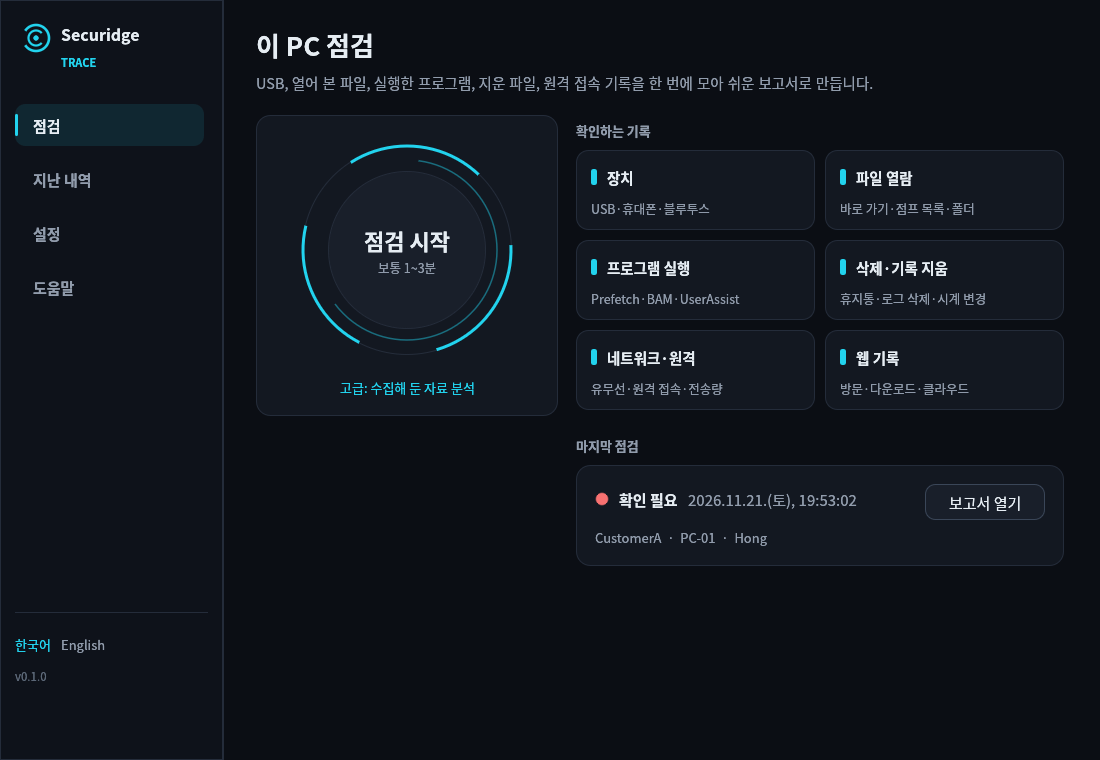
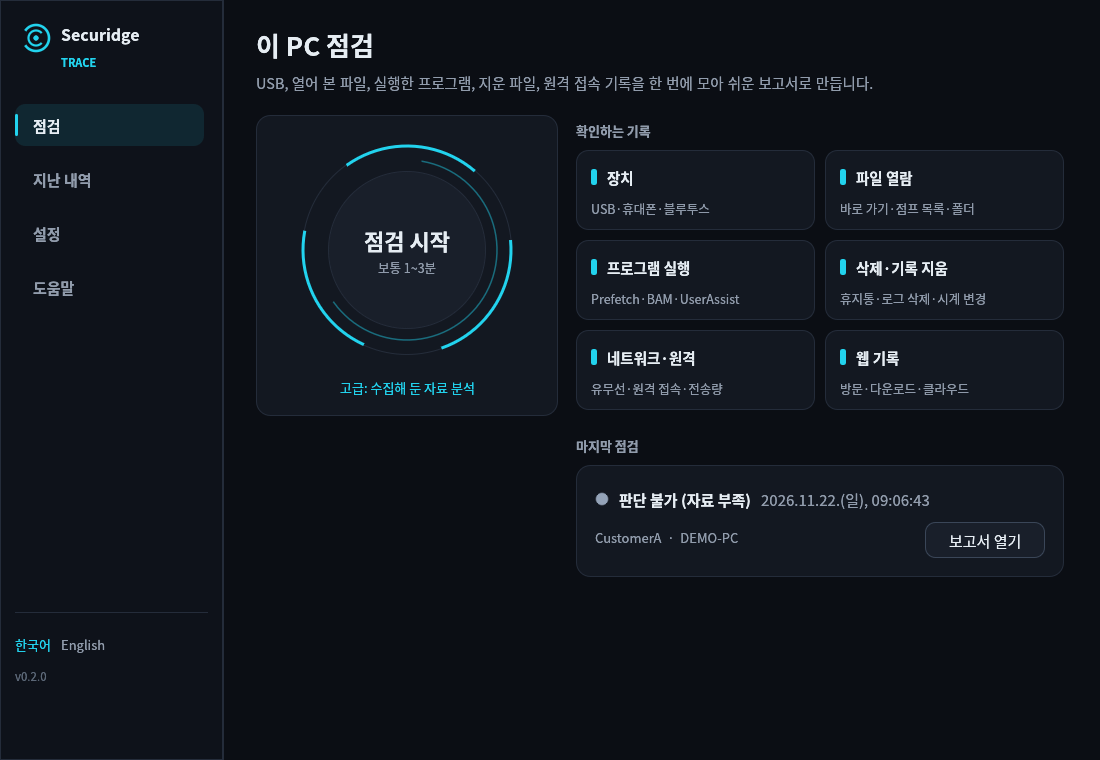
README 검증 현황 v0.2, 스크린샷, CI Prefetch 대기 보강
Claude-Session: https://claude.ai/code/session_01APsWpCB27gy9DHCCxkqUYW

Changed region(s): [[0.5255, 0.6355, 0.9273, 0.7263], [0.6182, 0.6961, 0.7109, 0.7263]]

diff --git a/ci/verify_more.py b/ci/verify_more.py
@@ -139,9 +139,9 @@ def live(truth, case):
     check("새 흔적", "Amcache 실행 파일 목록", count.get(("ProgramPresent", "hive_amcache"), 0) > 100, f"{count.get(('ProgramPresent', 'hive_amcache'), 0)}건")
     bam = [e for e in ev if e["source"]["artifact"] == "bam"]
     check("새 흔적", "BAM 장치 경로 → 드라이브 문자", any(e["subject"].upper().startswith("C:\\") for e in bam), [e["subject"] for e in bam][:3])
-    for art, kind in [("hive_amcache", "ProgramPresent"), ("jumplist", "FileOpened"), ("userassist", "ProgramRun")]:
+    for art, kind in [("hive_amcache", "ProgramPresent"), ("jumplist", "FileOpened"), ("userassist", "ProgramRun"), ("prefetch", "ProgramRun")]:
         xs = [e for e in ev if e["source"]["artifact"] == art and e["kind"] == kind]
-        check("예시", art, True, [(e["subject"][-60:], e["time"]["utc"]) for e in xs[:3]], hard=False)
+        check("예시", art, True, [(e["subject"][-60:], e["time"]["utc"], e["details"].get("run_count", "")) for e in xs[:3]], hard=False)
     pf = truth.get("prefetch", {})
     runs = [e for e in ev if e["kind"] == "ProgramRun" and e["source"]["artifact"] == "prefetch" and e["subject"].upper().endswith("\\" + pf.get("name", "?"))]
     if pf.get("exists"):

diff --git a/README.md b/README.md
@@ -54,13 +54,20 @@ GitHub Actions의 Windows 가상 머신(Windows Server 2022, 2025)에서 매 pus
 |---|---|---|---|
 | 바로 가기: 경로(한글), 볼륨 일련번호, 크기, 열람 시각 | 셸 API로 만든 실제 바로 가기와 대조 + 공개 샘플 17개 교차 검증 | 통과 | 미검증 |
 | 휴지통: 경로(한글), 크기, 삭제 시각, 계정 | 실제로 휴지통에 보낸 파일과 대조 | 통과 | 미검증 |
-| 레지스트리 파서: USB·휴대 장치·블루투스·드라이브 문자·네트워크(로컬→UTC)·계정 | Windows에서 `reg save`로 만든 **정답 하이브**와 대조 (26개 항목) | 통과 | 미검증 |
-| 이 PC 점검: 수집, 시스템 정보·계정·네트워크를 PowerShell 값과 대조, 로그 삭제(R5)·시계 변경(R6) 탐지 | 실제로 로그를 지우고 시계를 바꾼 뒤 `trace check` | 통과 | 미검증 |
-| 화면 프로그램 실행 | 실행 후 15초 생존, 스크린샷 (한글 표시·관리자 권한 표시 확인) | 통과 | 미검증 |
+| 레지스트리: USB·휴대 장치·블루투스·드라이브 문자·네트워크(로컬→UTC)·계정 | `reg save`로 만든 **정답 하이브**와 대조 (26개 항목) | 통과 | 미검증 |
+| 이 PC 점검: 수집, 시스템 정보·계정·네트워크, 로그 삭제(R5)·시계 변경(R6) 탐지 | 실제로 로그를 지우고 시계를 바꾼 뒤 `trace check` | 통과 | 미검증 |
+| 사용자 하이브 수집 (`reg save HKU\<SID>`, `_Classes`) | 이 PC 점검 | 통과 | 미검증 |
+| Amcache·SRUM 수집 (`esentutl /vss`), Amcache 해석 | 이 PC 점검에서 실행 파일 4,000개 이상 읽음 | 통과 | 미검증 |
+| BAM: 장치 경로 → 드라이브 문자 | 이 PC 점검 (`\Device\HarddiskVolumeN` → `C:\…`) | 통과 | 미검증 |
+| 점프 목록, UserAssist | 이 PC 점검에서 실제 기록 읽음 + 공개 표본(EZ, dtformats) 값 대조 | 통과 (읽기) | 미검증 |
+| Prefetch (Windows 7·8·10 형식, 압축 풀기) | 공개 표본의 실행 횟수·시각·볼륨 일련번호 대조 | 통과 (표본) / 서버판은 Prefetch가 기본으로 꺼져 있어 실기 대조는 참고 | 미검증 |
+| SRUM 데이터베이스 해석 | 실제 SRUDB.dat의 표를 읽음 (응용 프로그램 사용량 900여 건) | 통과 (읽기) / 네트워크 사용량 표는 가상 머신에 기록이 없어 미검증 | 미검증 |
+| ShellBags, 원격 데스크톱 로그 | 형식 문서 기준 단위 테스트 | 실기 미검증 (가상 머신에 기록 없음) | 미검증 |
+| 화면 프로그램 실행 | 실행 후 15초 생존, 스크린샷 | 통과 | 미검증 |
 | 실제 USB 장치·스마트폰 | — | 불가 (가상 머신에 장치 없음) | 미검증 |
-| 저장장치 연결 로그(1006)의 볼륨 일련번호, 무선 연결 로그 | 형식 문서 기준 단위 테스트 | 실기 미검증 (가상 머신에 기록 없음) | 미검증 |
-| 브라우저 실제 DB | — | 미검증 (헤드리스 실행이 기록을 남기지 않음) | 미검증 |
-| 판단 규칙, 시각 표기, 보고서, 손상 입력 내성 | 단위·통합 테스트 | 통과 | — |
+| 저장장치 연결 로그(1006), 무선 연결 로그 | 형식 문서 기준 단위 테스트 | 실기 미검증 | 미검증 |
+| 브라우저 실제 DB | — | 미검증 | 미검증 |
+| 판단 규칙(R1~R13), 시각 표기, 보고서, 손상 입력 내성 | 단위·통합 테스트 | 통과 | — |
 
 **실제 USB와 일반 PC용 Windows 10·11, 화면의 한글 입력은 사람이 한 번 확인해야 한다.**
 절차: `docs/test-scenarios.md`
